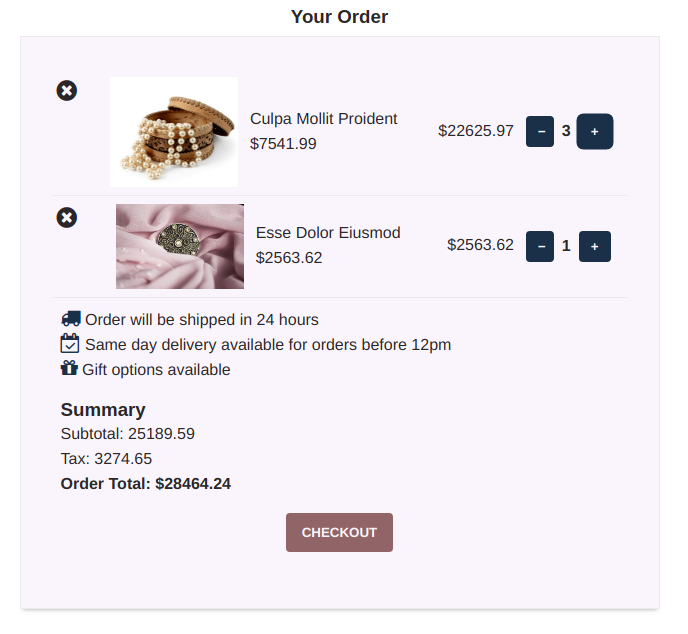
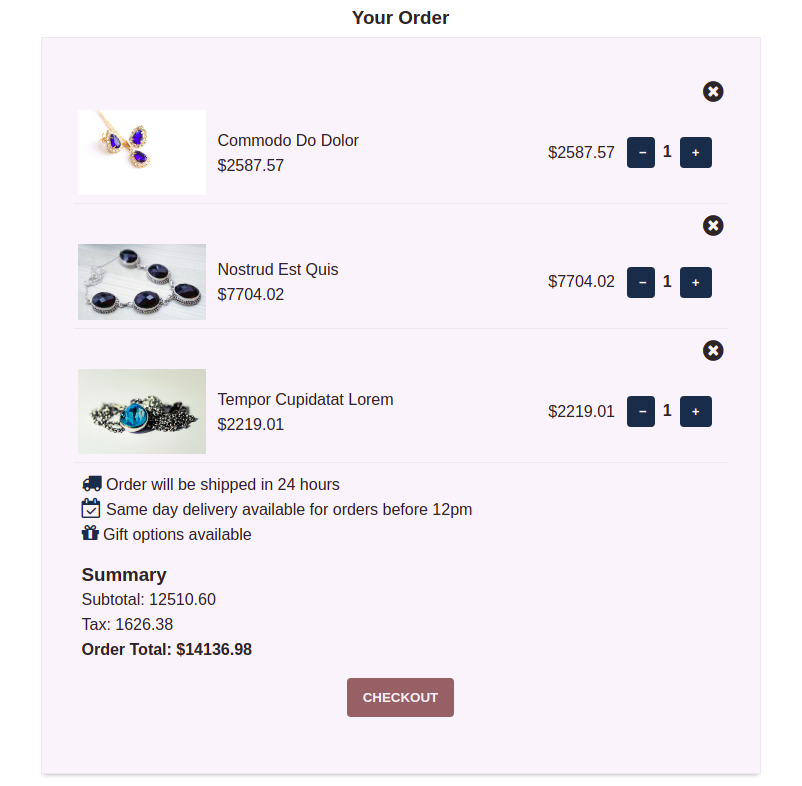
Update images and video

diff --git a/README.md b/README.md
@@ -17,8 +17,6 @@ A React jewelery shopping cart built using Context API.
 
 ## Key Features
 
-User:
-
 - Browse items
 - Add/remove from cart
 - Update quantities, totals
@@ -30,7 +28,7 @@ User:
   <img src ="./public/images/home.png" width="700"></p>
  <p align="center">
   <img src="./public/images/mobile.png" width="300">
-  <img src="./public/images/dropdown.png" width="500">
+  <img src="./public/images/dropdown.png" width="600">
   </p>
  <p align="center">
   <img src ="./public/images/order.png" width="500"></p>
